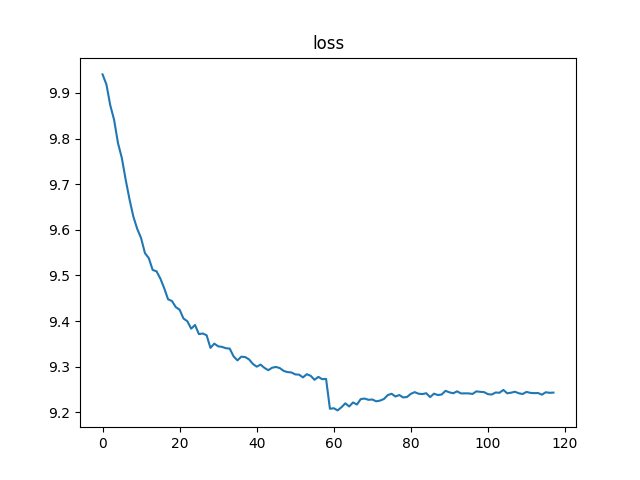
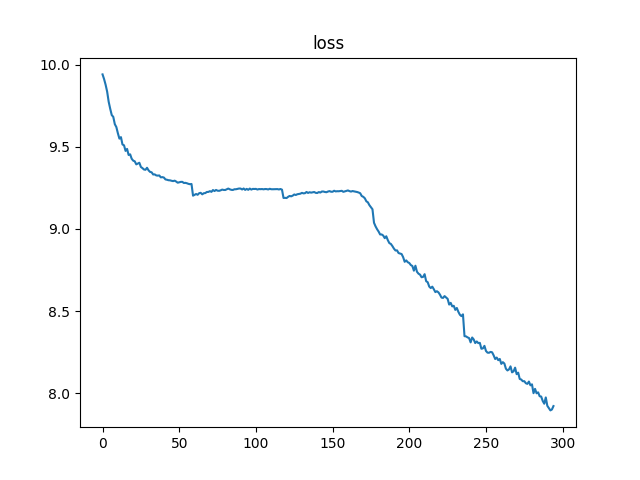
updated data creation scripts and test run

diff --git a/augment.py b/augment.py
@@ -1,0 +1,141 @@
+#!/usr/bin/env python3
+# -*- coding: utf-8 -*-
+'''
+Creates base datasets.
+One Test dataset with all available classes and a random assortment of images that are in the training dataset as well as not in the training set.
+
+An augmented dataset with 16 images per photo of training images.
+
+_NotUsed contains the original photos for the test data that is not in the training set.
+_Used contains the original photos for the training data.
+
+'''
+import os
+import shutil
+import albumentations as A
+from PIL import Image
+import numpy as np
+from sklearn.model_selection import train_test_split
+
+# Modify this part 
+inpath = 'UTKFace200'  # location of augmented data
+classification = 'gender' # either 'gender' or 'race'
+classes = ['Male','Female']#['White','Black', 'Asian', 'Indian','Other']  # list of classes
+train_percent = .99   # percent of smallest dataset to use as training
+test_percent = .95    # percent of training data to keep as test data
+main_folder = 'GenderDatasets'
+
+n_classes = len(classes)
+class_datasets = {c:set() for c in range(n_classes)}
+unique_files = []
+
+
+
+# Define transform pipeline
+transform = A.Compose([
+           A.OneOf([
+             A.RandomCrop(100,100,p=1),
+             A.Resize(100,100,p=1)
+           ],p=1),
+           A.HorizontalFlip(p=.5),
+           A.OneOf([
+             A.MedianBlur(blur_limit=3, p=.8),
+             A.Blur(blur_limit=5,p=.8)
+           ]),
+           A.Downscale(p=.2),
+           A.OneOf([
+             A.RGBShift(p=.7),
+             A.ColorJitter(p=.7),
+             A.ToGray(p=.5)
+           ]),
+           A.OneOf([
+             A.MultiplicativeNoise(p=.75),
+             A.ISONoise(p=.75)
+           ])
+  ])
+
+# define resize for original image
+resize = A.Compose([
+                    A.Resize(100,100,p=1)
+                    ])
+
+    
+# Get list of photos and separate into classes
+files = os.listdir(inpath)
+for image in files:
+  f_groups = image.split('_')
+  age, gender, race = f_groups[0], f_groups[1], f_groups[2]
+  name = image.split('.')[0]
+
+
+  # remove young kids
+  if int(age) > 10: 
+    unique_files.append(name) 
+    
+    # split into classes
+    if classification == 'gender':
+      class_datasets[int(gender)].add(name)
+    else:
+      class_datasets[int(race)].add(name)
+
+n = len(unique_files)
+class_len = [len(class_datasets[i]) for i in range(n_classes)]
+print('number of unique people:', n, len(set(unique_files)))
+print('number in each class:',class_len)
+    
+# make class datasets same number
+dataset_n = int(min(class_len)*train_percent) + 1 # modify if already even
+class_data =[train_test_split(list(class_datasets[i]), train_size=dataset_n) for i in range(n_classes)]
+print('Lengths of (training, test) sets:', [(len(class_data[i][0]), len(class_data[i][1])) for i in range(n_classes)])
+
+
+# Create Datasets
+os.mkdir(main_folder)
+os.mkdir(f'{main_folder}/Test')
+
+for d in classes:
+  j = classes.index(d)
+  outpath = f'{main_folder}/{d}/'
+  print(f'Creating class {d}')
+  os.mkdir(outpath)
+  os.mkdir(f'{main_folder}/{d}_NotUsed/')
+  os.mkdir(f'{main_folder}/{d}_Used/')
+  
+
+  # move classes
+  c = class_data[j]
+  for im in c[0]:
+    image = np.asarray(Image.open(f'{inpath}/{im}.jpg.chip.jpg'))
+    name = im.split('.')[0]
+
+    # save original to _Used in case we need it
+    orig_im = Image.fromarray(resize(image=image)['image'])
+    orig_im = orig_im.save(f'{main_folder}/{d}_Used/{name}.jpg')
+
+    # Create augmented data
+    os.mkdir(f'{outpath}/{name}')
+    for j in range(16):
+      aug_image = Image.fromarray(transform(image=image)['image'])
+      aug_image = aug_image.save(f'{outpath}/{name}/{j}_{name}.jpg')
+
+
+    # Add some to Test dataset
+    os.mkdir(f'{main_folder}/Test/{name}')
+    if np.random.random() >= test_percent:
+      aug_im = Image.fromarray(transform(image=image)['image'])
+      aug_im = aug_im.save(f'{main_folder}/Test/{name}/{name}.jpg')
+
+  # Add test set to Test dataset
+  for im in c[1]:
+    image = np.asarray(Image.open(f'{inpath}/{im}.jpg.chip.jpg'))
+    name = im.split('.')[0]
+    
+    # save original to _NotUsed in case we need it
+    orig_im = Image.fromarray(resize(image=image)['image'])
+    orig_im = orig_im.save(f'{main_folder}/{d}_NotUsed/{name}.jpg')
+    
+    os.mkdir(f'{main_folder}/Test/{name}')
+    aug_image = Image.fromarray(transform(image=image)['image'])
+    aug_imag = aug_image.save(f'{main_folder}/Test/{name}/{name}.jpg')
+
+

diff --git a/train_rl.py b/train_rl.py
@@ -44,7 +44,7 @@ def get_data(batch_size=256):
 
 
 
-def get_face_data(batch_size=256,train_set='Male'):
+def get_face_data(batch_size=256,base_folder='GenderDatasets',train_set='Percents/Male_0.66'):
   transform = transforms.Compose(
     [
       transforms.ToTensor(), 
@@ -53,14 +53,14 @@ def get_face_data(batch_size=256,train_set='Male'):
   )
 
   trainset = torchvision.datasets.ImageFolder(
-    root=f'Datasets/{train_set}', transform=transform
+    root=f'{base_folder}/{train_set}', transform=transform
   )
   trainloader = torch.utils.data.DataLoader(
     trainset, batch_size=batch_size, shuffle=True, num_workers=2
   )
 
   testset = torchvision.datasets.ImageFolder(
-    root='Datasets/Test', transform=transform
+    root=f'{base_folder}/Test', transform=transform
   )
   testloader = torch.utils.data.DataLoader(
     trainset, batch_size=batch_size, shuffle=True, num_workers=2
@@ -145,7 +145,7 @@ def test(model, testloader, idx_to_class):
         for i in range(N):
           class_correct[i] += (correct_classes == i).sum()
           class_counts[i] += (class_y == i).sum()
-
+        print(correct_classes, class_y)
         actual.extend(y.detach().cpu())
 
         predicted.extend(preds.detach().cpu())
@@ -158,7 +158,7 @@ def test(model, testloader, idx_to_class):
 
 
 if __name__ == '__main__':
-  trainloader, testloader, idx_to_class = get_face_data(train_set='Female')
+  trainloader, testloader, idx_to_class = get_face_data(base_folder='GenderDatasets',train_set='Percents/Male_0.66')
   
   N = 2 # Number of genders or races
   n_classes = len(idx_to_class)
@@ -171,7 +171,7 @@ if __name__ == '__main__':
 
   model, losses = train(
     model, opt, crit, sch,
-    trainloader, 3, 'chkpt/faces_female.tar'
+    trainloader, 5, 'chkpt/faces_female.tar'
   )
 
   plt.plot(losses)
@@ -179,16 +179,28 @@ if __name__ == '__main__':
   plt.savefig('vis/faces_female_losses.png')
   plt.clf()
 
-  print('\nCalculating accuracy')
   accuracy, class_accuracy, class_counts, actual, predicted = test(model, testloader, idx_to_class)
   
-  
-  print('\nCalculating Metrics')
   print( accuracy, class_accuracy, class_counts)
   M = [[class_accuracy[0], class_counts[0]],[class_counts[1] ,class_accuracy[1]]] 
-  plt.matshow(M)
-  plt.title("Confusion Matrix")
-  plt.savefig('vis/faces_female_metrics.png')
+  
+  fig = plt.figure()
+  ax = plt.gca()
+
+  im = ax.matshow(M, cmap=plt.cm.Blues)
+  fig.colorbar(im)
+
+  for i in range(N):
+      for j in range(N):
+          ax.text(x=i,y=j,s=M[i][j], va='center',ha='center')
+  ax.set_xticks(np.arange(N))
+  ax.set_yticks(np.arange(N))
+  ax.set_xticklabels(['Male','Female'])
+  ax.set_yticklabels(['Correct','Incorrect'])
+  plt.title('Confusion Matrix')
+  plt.ylabel('Predicted')
+  plt.xlabel('Actual')
+  plt.savefig('vis/faces_female_confusion.png')
   plt.clf()
 
 

diff --git a/new_datasets.py b/new_datasets.py
@@ -1,0 +1,57 @@
+#!/usr/bin/env python3
+# -*- coding: utf-8 -*-
+'''
+Create N datasets where each dataset has majority_percent of one class and equal percentage of other classes.
+
+
+'''
+import os
+import shutil
+from PIL import Image
+import numpy as np
+from sklearn.model_selection import train_test_split
+
+
+# Modify
+inpath = 'GenderDatasets'  # location of augmented data
+classification = 'gender' # either 'gender' or 'race'
+classes = ['Male','Female']#['White','Black', 'Asian', 'Indian','Other']  # list of classes (these must the same as the folders in inpath)
+majority_percent = .66   # percent of smallest dataset to use as training
+new_folder = 'GenderDatasets/Percents'  # path to save datasets
+
+
+# Don't need to modify
+class_to_idx = {i:c for i,c in enumerate(classes)}
+class_files = {c:[] for c in classes}
+os.mkdir(new_folder)
+N = len(classes)
+minority_percent = (1-majority_percent)/(N-1)
+
+files = [os.listdir(f'{inpath}/{i}') for i in classes]
+unique_files = [f for sublist in files for f in sublist]
+
+
+for image in unique_files:
+    f_groups = image.split('_')
+    gender, race =  int(f_groups[1]), int(f_groups[2])
+
+    if classification == 'gender':
+      class_files[class_to_idx[gender]].append(image)
+    else:
+      class_files[class_to_idx[race]].append(image)
+
+
+for c in classes:
+    folder_name = f'{new_folder}/{c}_{majority_percent}'
+    os.mkdir(folder_name)
+
+    for c2 in classes:
+      if c2 == c:
+          train, test = train_test_split(class_files[c2], train_size=majority_percent)
+      else:
+          train, test = train_test_split(class_files[c2], train_size=minority_percent)
+      for i in train:
+          shutil.copytree(f'{inpath}/{c2}/{i}', f'{folder_name}/{i}')
+
+
+
